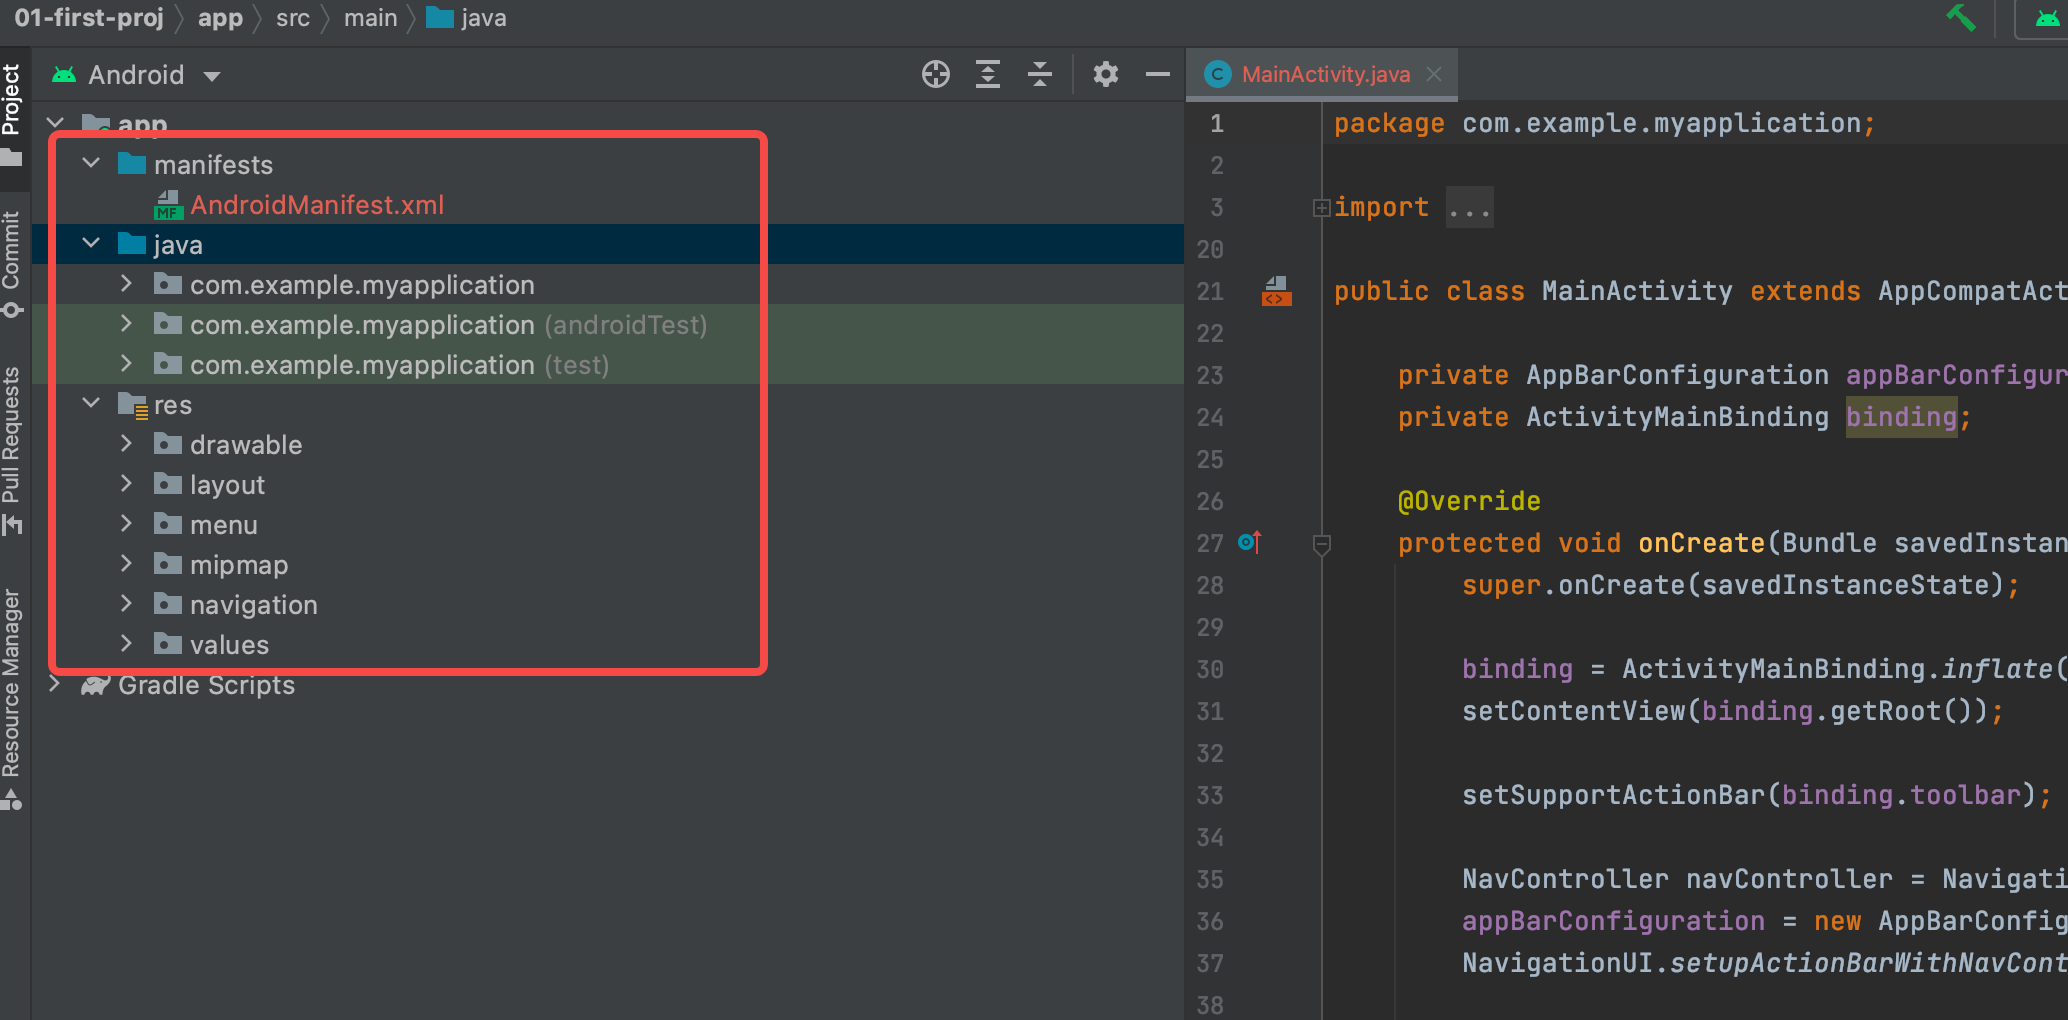
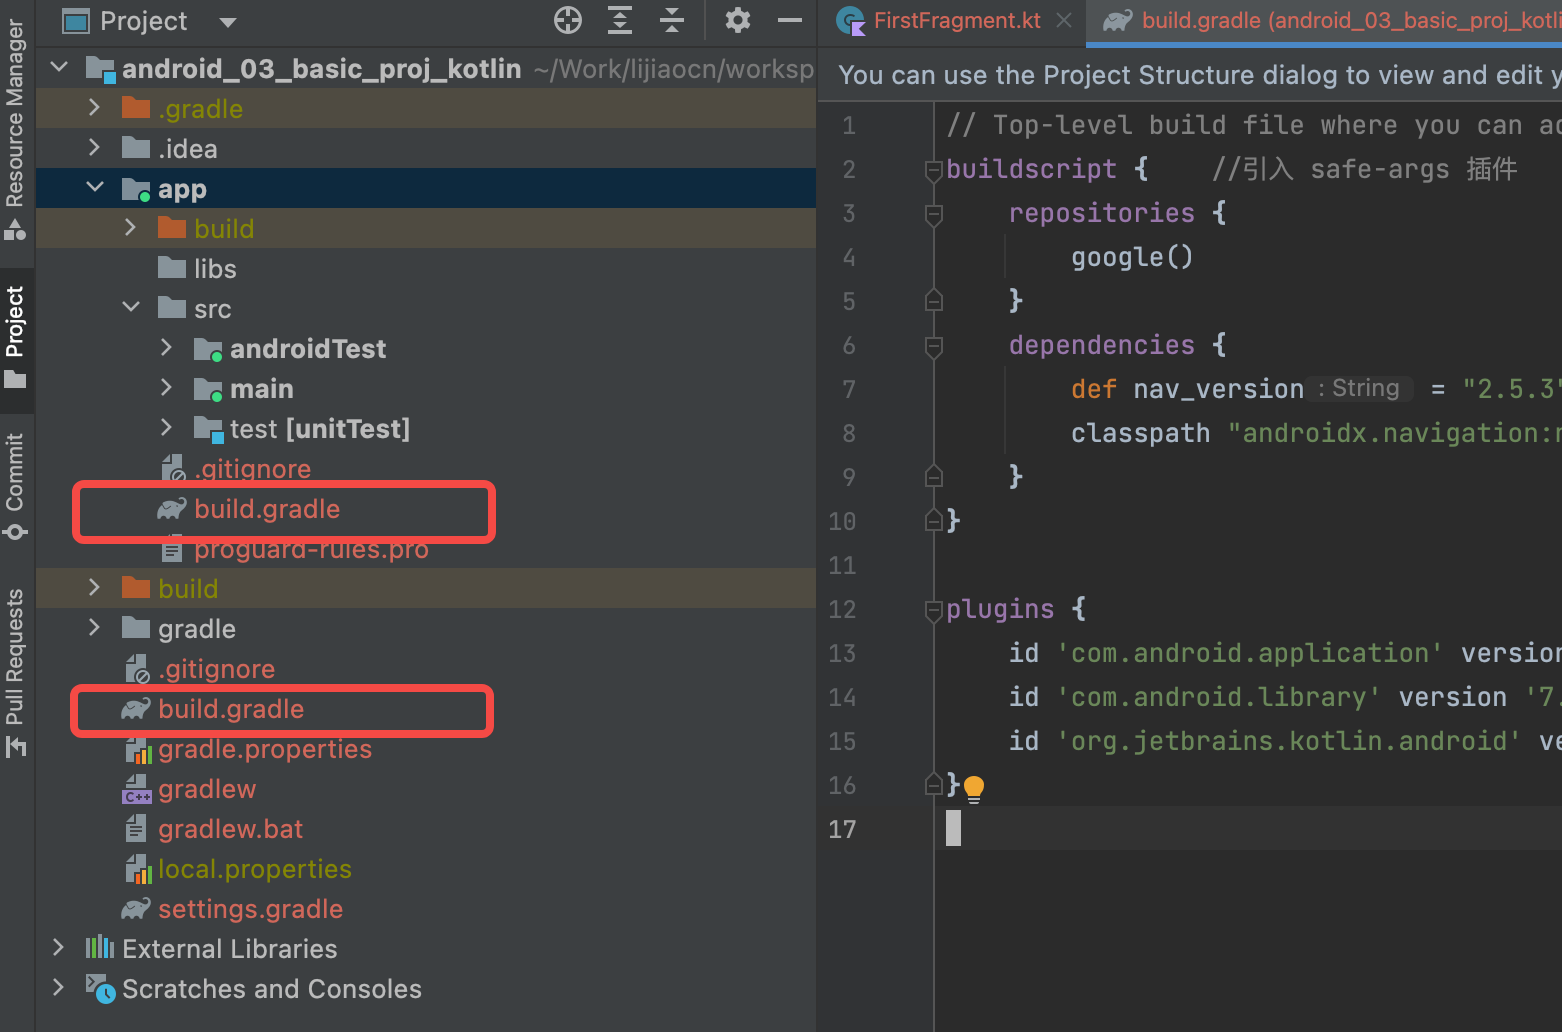
m

diff --git a/_posts/2022-04-30-android-dev-env.md b/_posts/2022-04-30-android-dev-env.md
@@ -3,7 +3,7 @@ layout: default
 title: "Android 开发环境搭建，模拟器以及设备上运行"
 author: 李佶澳
 date: "2022-04-30 18:30:39 +0800"
-last_modified_at: "2023-03-28 11:08:36 +0800"
+last_modified_at: "2023-04-18 14:23:18 +0800"
 categories: 编程
 cover:
 tags: Android 
@@ -11,35 +11,35 @@ keywords: android,移动应用开发
 description: AndroidStudio的File->NewProject创建BasicActivity，选择Java/Kotlin语言、最小的sdk版本
 ---
 
-## 本篇目录
+## 目录
 
 * auto-gen TOC:
 {:toc}
 
-## 说明
-
-## 第一个 Android 项目
-
-学习资料：[Build Your First Android App in Java][4]。
+## 创建项目
 
 通过 Android Studio 的 File->New Project 创建一个 Basic Activity，选择 Java 或者 Kotlin 语言，选择最小的 sdk  版本。
 
-### 项目目录
+* [Build Your First Android App in Java][4]。
+* [Build Your First Android App in Kotlin][6]
+* [Create XML layouts for Android][7]
 
-项目目录说明：源代码核心目录是 app/src/main，在 Android Studio 的左侧面板中看到目录树的根是 app/src/main。
+## 项目目录
 
-```sh
-➜  01-first-proj git:(main) ✗ ls app/src/main   
-AndroidManifest.xml java                res
-```
+项目中有两个 build.gradle 文件：一个位于项目根目录，另一个位于 app 目录中。
 
 ![Android Studio目录结构]({{ site.article }}/android-studio-proj1.png)
 
-manifests/AndroidManifest.xml 是对 app 内各组件的描述，android runtime 读取该文件。 
+源代码目录主要是 app/src/main，在 Android Studio 的左侧面板中看到目录树的根是 app/src/main。
 
-java 目录中是 app 的源代码。
+```sh
+➜  01-first-proj git:(main) ✗ ls app/src/main   
+AndroidManifest.xml java res
+```
 
-res 目录中是 app 使用的资源文件，其中：
+其中 AndroidManifest.xml 是对 app 内各组件的描述，android runtime 读取该文件。 
+
+java 目录中是 app 的源代码。res 目录中是 app 使用的资源文件，包括以下子目录：
 
 * drawable 存放图片
 * layout 存放每个交互界面的 UI 布局
@@ -48,18 +48,30 @@ res 目录中是 app 使用的资源文件，其中：
 * navigation 存放交互界面的切换顺讯
 * values 存放颜色、字符串等自定义资源
 
-### 用模拟器运行
+### AndroidManifest.xml 
+
+[App manifest overview][10] 介绍了 AndroidManifest.xml 的用途和支持的配置项。
+
+* AndroidManifest.xml 位于项目根目录且名称固定，提供了构建相关的信息
+* 声明 app 包含的组件 activity、service、broadcast receiver、content provider
+* 声明 app 需要的权限
+* 声明 app 需要的硬件和软件限制
+
+### Layouts xml
+
+* [Create XML layouts for Android][7]
+
+## 用模拟器运行
 
 通过 Android Studio 的 Tools -> AVD Manager 安装本地安卓模拟器，然后就可以用运行按钮启动：
 
 ![Android Studio运行本地安卓模拟器]({{ site.article }}/android-studio-run1.png)
 
-### 用物理设备运行
+## 用物理设备运行
 
 进入 android 手机的开发者设置，打开 USB 调试，将手机脸上电脑上，在 Android Studio 中就可以看到增加的设备，选择并运行即可。
 
 ![Android Studio设备上运行]({{ site.article }}/adroid-studio-run2.png)
-
 
 ## 应用架构
 
@@ -67,6 +79,18 @@ App component 加载顺序是不确定的，而且可能会被随时销毁，不
 
 >it's possible for your app components to be launched individually and out-of-order, and the operating system or user can destroy them at any time. Because these events aren't under your control, you shouldn't store or keep in memory any application data or state in your app components, and your app components shouldn't depend on each other.
 
+[Guide to app architectur][5] 给出以下架构原则：
+
+* 代码按功能分离，不要都写在 activity 和 fragment 中。Activity 和 Fragment 是连接 Android OS 和 App 的 glue classes，操作系统的会在需要的将其销毁，要尽可能减少对其 Activity 和 Fragment 的依赖。
+* Data model 和 UI 等组件分离且持久化。
+* 每个数据都有唯一的出处(SSOT, single source of truth)，且只能通过 SSOT 提供的方法修改。
+* 数据保持单向流动，application data 从 data sources 流向 UI，操作事件从 UI 流向数据的唯一出处。
+
+### 推荐的应用架构
+
+三层架构：UI Layer -> Domain Layer(optional) -> Data Layer。
+
+![Android 推荐应用架构]({{ site.article }}/mad-arch-overview.png)
 
 
 ## 参考
@@ -75,8 +99,20 @@ App component 加载顺序是不确定的，而且可能会被随时销毁，不
 2. [Android][2]
 3. [Android开发课][3]
 4. [Build Your First Android App in Java][4]
+5. [Guide to app architectur][5]
+6. [Build Your First Android App in Kotlin][6]
+7. [Create XML layouts for Android][7]
+8. [Android Basics in Kotlin][8]
+9. [Modern Android App Architecture][9]
+10. [App manifest overview][10]
 
 [1]: https://www.lijiaocn.com "李佶澳的博客"
 [2]: https://www.android.com/ "Android"
 [3]: https://developer.android.com/courses "Android开发课"
 [4]: https://developer.android.com/codelabs/build-your-first-android-app#2 "Build Your First Android App in Java"
+[5]: https://developer.android.com/topic/architecture?hl=en "Guide to app architectur"
+[6]: https://developer.android.com/codelabs/build-your-first-android-app-kotlin "Build Your First Android App in Kotlin"
+[7]: https://developer.android.com/codelabs/basic-android-kotlin-training-xml-layouts#0 "Create XML layouts for Android"
+[8]: https://developer.android.com/courses/android-basics-kotlin/course "Android Basics in Kotlin"
+[9]: https://developer.android.com/courses/pathways/android-architecture "Modern Android App Architecture"
+[10]: https://developer.android.com/guide/topics/manifest/manifest-intro "App manifest overview"
